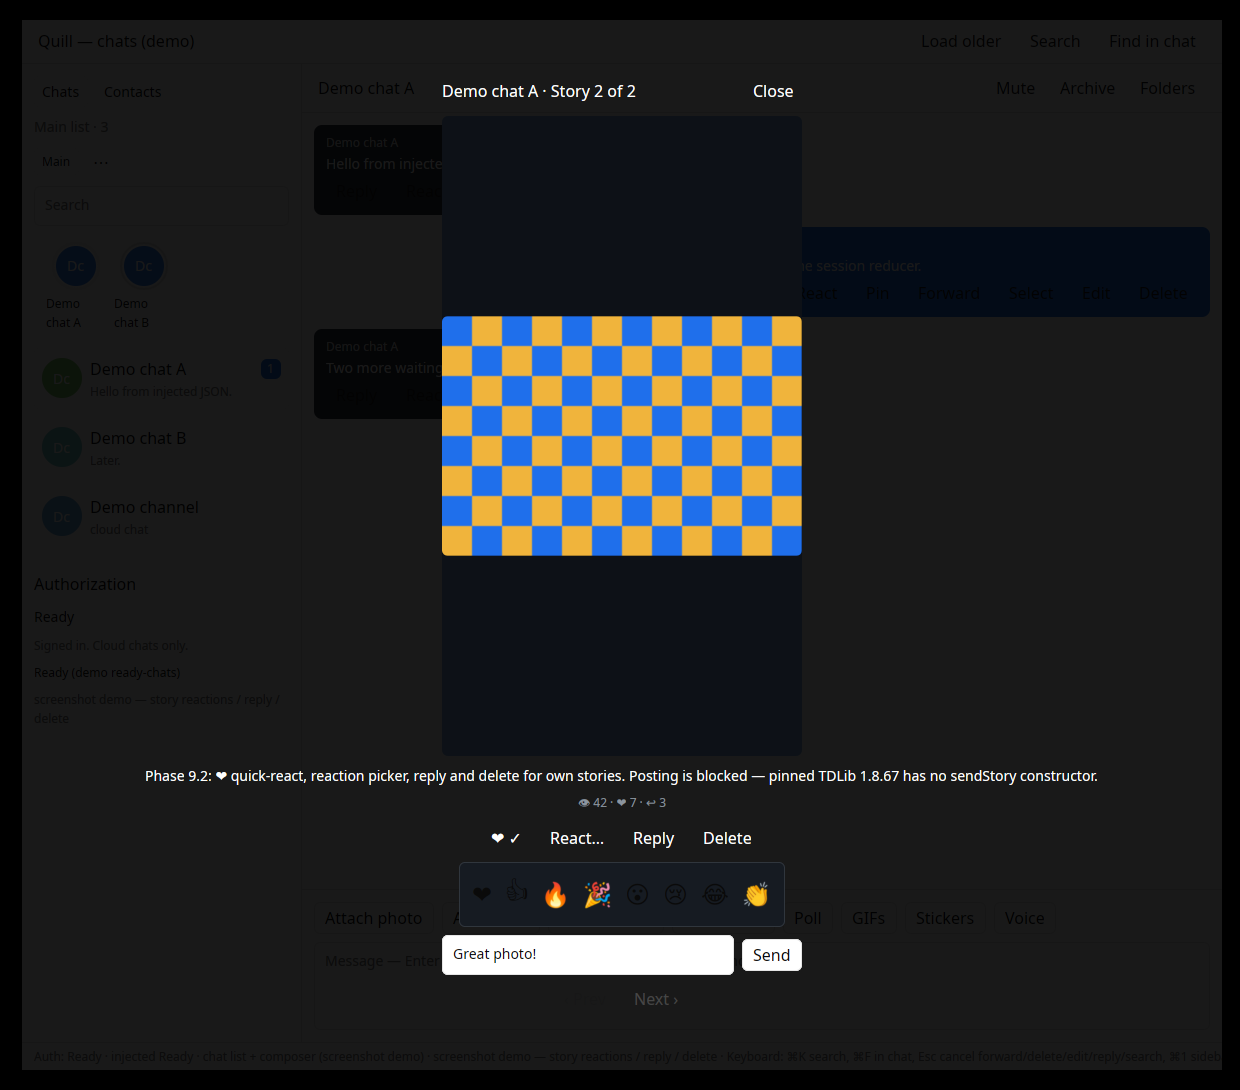
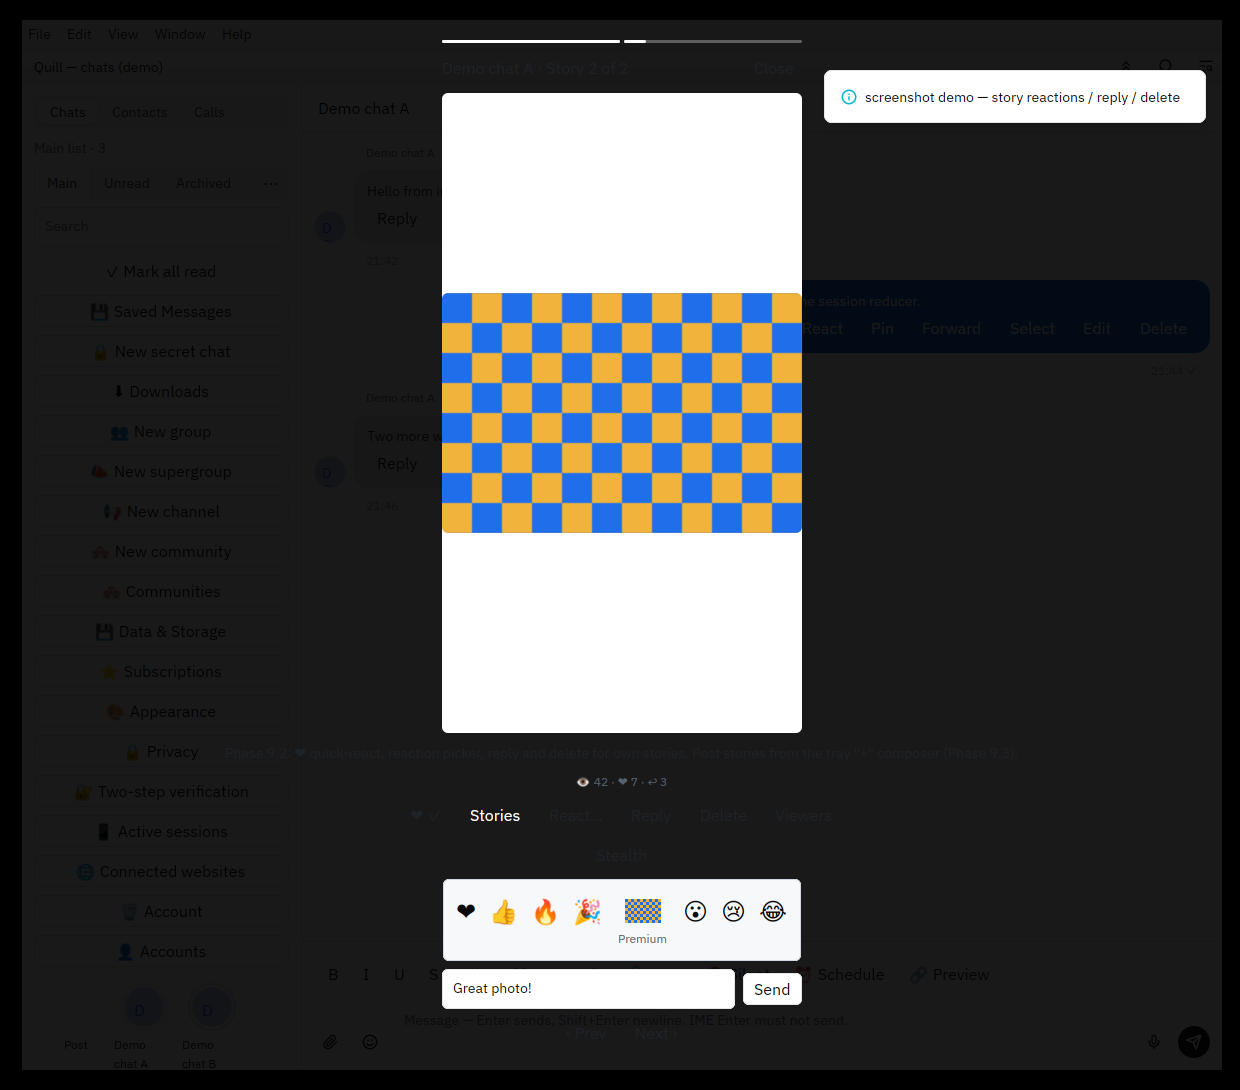
Warm story custom-emoji downloads and refresh picker UI proof

Changed region(s): [[0.1226, 0.0624, 0.9806, 0.9358]]

diff --git a/src/ui/story_composer.rs b/src/ui/story_composer.rs
@@ -13,17 +13,18 @@ use gpui_kit::prelude::FluentBuilder;
 use gpui_kit::*;
 use quill::diagnostics::{DiagnosticSink, MemorySink};
 use quill::ids::ChatId;
-use quill::state::{Session, StoryPostOutcome, StoryPostState};
+use quill::state::{RequestPurpose, Session, StoryPostOutcome, StoryPostState};
 use quill::story_composer::{StoryComposer, StoryExpiry, StoryMediaKind, StoryPrivacy};
 use quill::telegram::client::copy_and_parse;
 use quill::telegram::requests::input_story_content;
 use std::sync::Arc;
 use std::sync::atomic::AtomicU64;
-/// `ReadyStoryPost` fixture (Phase 9.2): same seed as `ReadyStories`, but
-/// Demo chat A's photo story (id 5) is an *own* story — chosen ❤ reaction,
-/// interaction counts, `can_be_deleted` / `can_be_replied` — and an
-/// `availableReactions` response is injected through the reducer so the
-/// reaction picker has options.
+/// `ReadyStoryPost` fixture (Phase 9.2 / stories-custom-reactions): same
+/// seed as `ReadyStories`, but Demo chat A's photo story (id 5) is an *own*
+/// story — chosen ❤ reaction, interaction counts, `can_be_deleted` /
+/// `can_be_replied` — plus `availableReactions` (emoji + one custom-emoji
+/// Premium tile) and a cached `getCustomEmojiStickers` answer so the picker
+/// renders a real custom-emoji sticker thumb (demo-thumb.png).
 pub(super) fn apply_ready_story_post(
     session: &mut Session,
     sink: &Arc<MemorySink>,
@@ -74,13 +75,26 @@ pub(super) fn apply_ready_story_post(
             r#"{{"@type":"story","id":6,"poster_chat_id":12,"date":1700000000,"content":{{"@type":"storyContentPhoto","photo":{{"@type":"photo","has_stickers":false,"sizes":[{{"@type":"photoSize","type":"y","photo":{photo_file},"width":960,"height":1280,"progressive_sizes":[]}}]}}}},"caption":{}}}"#,
             caption("Demo chat B story."),
         ),
-        // Seeded picker options (`getStoryAvailableReactions` response).
-        r#"{"@type":"availableReactions","top_reactions":[{"@type":"availableReaction","type":{"@type":"reactionTypeEmoji","emoji":"❤"},"needs_premium":false},{"@type":"availableReaction","type":{"@type":"reactionTypeEmoji","emoji":"👍"},"needs_premium":false},{"@type":"availableReaction","type":{"@type":"reactionTypeEmoji","emoji":"🔥"},"needs_premium":false},{"@type":"availableReaction","type":{"@type":"reactionTypeEmoji","emoji":"🎉"},"needs_premium":false},{"@type":"availableReaction","type":{"@type":"reactionTypeEmoji","emoji":"😮"},"needs_premium":false},{"@type":"availableReaction","type":{"@type":"reactionTypeEmoji","emoji":"😢"},"needs_premium":false},{"@type":"availableReaction","type":{"@type":"reactionTypeEmoji","emoji":"😂"},"needs_premium":false},{"@type":"availableReaction","type":{"@type":"reactionTypeEmoji","emoji":"👏"},"needs_premium":false}],"recent_reactions":[],"popular_reactions":[],"allow_custom_emoji":false,"are_tags":false,"unavailability_reason":null}"#.to_string(),
+        // Seeded picker options (`getStoryAvailableReactions` response) —
+        // emoji rows plus one custom-emoji Premium option (id 4242).
+        r#"{"@type":"availableReactions","top_reactions":[{"@type":"availableReaction","type":{"@type":"reactionTypeEmoji","emoji":"❤"},"needs_premium":false},{"@type":"availableReaction","type":{"@type":"reactionTypeEmoji","emoji":"👍"},"needs_premium":false},{"@type":"availableReaction","type":{"@type":"reactionTypeEmoji","emoji":"🔥"},"needs_premium":false},{"@type":"availableReaction","type":{"@type":"reactionTypeEmoji","emoji":"🎉"},"needs_premium":false},{"@type":"availableReaction","type":{"@type":"reactionTypeCustomEmoji","custom_emoji_id":"4242"},"needs_premium":true},{"@type":"availableReaction","type":{"@type":"reactionTypeEmoji","emoji":"😮"},"needs_premium":false},{"@type":"availableReaction","type":{"@type":"reactionTypeEmoji","emoji":"😢"},"needs_premium":false},{"@type":"availableReaction","type":{"@type":"reactionTypeEmoji","emoji":"😂"},"needs_premium":false}],"recent_reactions":[],"popular_reactions":[],"allow_custom_emoji":true,"are_tags":false,"unavailability_reason":null}"#.to_string(),
     ];
     for json in jsons {
         if let Some(owned) = copy_and_parse(&json, seq, &dyn_sink) {
             session.apply(owned);
         }
+    }
+    // Phase 9.2+: seed `getCustomEmojiStickers` for custom emoji 4242 with a
+    // completed local thumb so the picker tile renders `img()` (not ✨).
+    let custom_extra = session.request(RequestPurpose::GetStoryCustomEmojiStickers, None);
+    let custom_thumb = demo_file_json(94, &demo_thumb_png_path(), true);
+    let stickers = format!(
+        r#"{{"@type":"stickers","@extra":"{extra}","stickers":[{{"@type":"sticker","id":"4242","set_id":"0","width":100,"height":100,"emoji":"✨","format":{{"@type":"stickerFormatWebp"}},"full_type":{{"@type":"stickerFullTypeCustomEmoji","custom_emoji_id":"4242"}},"thumbnail":{{"@type":"thumbnail","format":{{"@type":"thumbnailFormatPng"}},"width":100,"height":100,"file":{thumb}}},"sticker":{thumb}}}]}}"#,
+        extra = custom_extra.0,
+        thumb = custom_thumb,
+    );
+    if let Some(owned) = copy_and_parse(&stickers, seq, &dyn_sink) {
+        session.apply(owned);
     }
 }
 

diff --git a/src/ui/story_viewer.rs b/src/ui/story_viewer.rs
@@ -202,6 +202,7 @@ impl QuillApp {
         self.story_playback.start(Instant::now());
         self.ensure_story_tick(cx);
         self.ensure_story_download(cx);
+        self.ensure_story_custom_emoji_downloads();
         true
     }
 
@@ -814,6 +815,7 @@ impl QuillApp {
         self.story_playback.start(Instant::now());
         self.ensure_story_tick(cx);
         self.ensure_story_download(cx);
+        self.ensure_story_custom_emoji_downloads();
         cx.notify();
     }
 
@@ -868,6 +870,9 @@ impl QuillApp {
                         if let Some(live) = this.live.as_mut() {
                             let _ = live.driver.maybe_fetch_story_custom_emoji_stickers(&ids);
                         }
+                        // Warm display-file downloads once stickers are
+                        // cached — metadata alone leaves the img() path dead.
+                        this.ensure_story_custom_emoji_downloads();
                         cx.notify();
                         true
                     })
@@ -914,6 +919,44 @@ impl QuillApp {
         });
         if !local && item.download_file_id.0 != 0 {
             self.request_media_download(item.download_file_id, None, cx);
+        }
+    }
+
+    /// Phase 9.2+: warm `downloadFile` for custom-emoji reaction sticker
+    /// display files (picker tiles + chosen badge). Metadata from
+    /// `getCustomEmojiStickers` alone is not enough — `story_custom_emoji_path`
+    /// needs a completed local file. Dedupes active downloads so the viewer
+    /// tick can call this safely every frame.
+    pub(super) fn ensure_story_custom_emoji_downloads(&mut self) {
+        let ids = self.story_custom_emoji_fetch_ids();
+        let file_ids: Vec<_> = {
+            let Some(session) = self.session() else {
+                return;
+            };
+            ids.iter()
+                .filter_map(|id| {
+                    let sticker = session.story_custom_emoji_stickers.get(id)?;
+                    let file_id = sticker.display_file_id()?;
+                    if file_id.0 == 0 {
+                        return None;
+                    }
+                    match session.files.get(&file_id.0) {
+                        Some(file)
+                            if file.usable_path().is_some() || file.local.is_downloading_active =>
+                        {
+                            None
+                        }
+                        _ => Some(file_id),
+                    }
+                })
+                .collect()
+        };
+        for file_id in file_ids {
+            if let Some(live) = self.live.as_mut() {
+                // Display chrome uses one-shot downloadFile, like chat
+                // thumbnails, rather than the user's downloads list.
+                let _ = live.driver.download_file(file_id, 1);
+            }
         }
     }
 
@@ -1020,8 +1063,9 @@ impl QuillApp {
                         .id(("story-custom-emoji-option", index))
                         .cursor_pointer()
                         .pressable(cx.theme())
-                        .w(px(48.))
-                        .h(px(48.))
+                        .w(px(64.))
+                        .h(px(64.))
+                        .flex_shrink_0()
                         .rounded_md()
                         .flex()
                         .flex_col()
@@ -1033,6 +1077,7 @@ impl QuillApp {
                                 .id(("story-custom-emoji-img", id as u64))
                                 .w(px(36.))
                                 .h(px(36.))
+                                .flex_shrink_0()
                                 .object_fit(ObjectFit::Contain)
                                 .with_fallback(|| div().text_2xl().child("✨").into_any_element())
                                 .into_any_element(),
@@ -1041,8 +1086,13 @@ impl QuillApp {
                         cell = cell.child(div().text_2xl().child("✨"));
                     }
                     if reaction.needs_premium {
-                        cell =
-                            cell.child(div().text_xs().text_color(text_muted()).child("Premium"));
+                        cell = cell.child(
+                            div()
+                                .text_xs()
+                                .whitespace_nowrap()
+                                .text_color(text_muted())
+                                .child("Premium"),
+                        );
                     }
                     picker = picker.child(cell.on_click(cx.listener(move |this, _, _, cx| {
                         this.pick_story_custom_emoji_reaction(id, cx);

diff --git a/src/connect/tests/stories.rs b/src/connect/tests/stories.rs
@@ -528,6 +528,69 @@ fn driver_fetch_story_custom_emoji_stickers_dedupes_and_caches() {
     );
     assert_eq!(recorder.snapshot().len(), sent);
 
+    // Cache path: ingest the stickers answer, then the same id is a no-op.
+    driver
+        .ingest(
+            copy_and_parse(
+                &format!(
+                    r#"{{"@type":"stickers","@extra":"{}","stickers":[{{"@type":"sticker","id":"123","set_id":"0","width":100,"height":100,"emoji":"✨","format":{{"@type":"stickerFormatWebp"}},"full_type":{{"@type":"stickerFullTypeCustomEmoji","custom_emoji_id":"123"}},"thumbnail":null,"sticker":{{"@type":"file","id":77,"size":4,"expected_size":4,"local":{{"@type":"localFile","path":"","can_be_downloaded":true,"can_be_deleted":false,"is_downloading_active":false,"is_downloading_completed":false,"download_offset":0,"downloaded_prefix_size":0,"downloaded_size":0}},"remote":{{"@type":"remoteFile","id":"x","unique_id":"u","is_uploading_active":false,"is_uploading_completed":true,"uploaded_size":4}}}}}}]}}"#,
+                    extra.0
+                ),
+                &seq,
+                &dyn_sink,
+            )
+            .unwrap(),
+        )
+        .unwrap();
+    assert!(
+        driver
+            .session
+            .story_custom_emoji_stickers
+            .contains_key(&123)
+    );
+    assert!(
+        driver
+            .maybe_fetch_story_custom_emoji_stickers(&[123])
+            .unwrap()
+            .is_none()
+    );
+    assert_eq!(recorder.snapshot().len(), sent);
+
+    // Cached metadata still needs its display file. The viewer uses the
+    // automatic API, which dedupes before TDLib marks the download active.
+    let display_file = driver.session.story_custom_emoji_stickers[&123]
+        .display_file_id()
+        .unwrap();
+    let download_extra = driver.download_file(display_file, 1).unwrap().unwrap();
+    let requests = recorder.snapshot();
+    let download: Value = serde_json::from_str(requests.last().unwrap()).unwrap();
+    assert_eq!(download["@type"], "downloadFile");
+    assert_eq!(download["file_id"], 77);
+    assert_eq!(download["priority"], 1);
+    assert!(driver.download_file(display_file, 1).unwrap().is_none());
+    assert!(driver.session.user_downloads.is_empty());
+    assert_eq!(recorder.snapshot().len(), sent + 1);
+
+    driver
+        .ingest(
+            copy_and_parse(
+                &format!(
+                    r#"{{"@type":"file","@extra":"{}","id":77,"size":4,"expected_size":4,"local":{{"@type":"localFile","path":"/tmp/custom-emoji.webp","can_be_downloaded":true,"can_be_deleted":true,"is_downloading_active":false,"is_downloading_completed":true,"download_offset":0,"downloaded_prefix_size":4,"downloaded_size":4}},"remote":{{"@type":"remoteFile","id":"x","unique_id":"u","is_uploading_active":false,"is_uploading_completed":true,"uploaded_size":4}}}}"#,
+                    download_extra.0
+                ),
+                &seq,
+                &dyn_sink,
+            )
+            .unwrap(),
+        )
+        .unwrap();
+    assert_eq!(
+        driver.session.files[&77].usable_path(),
+        Some("/tmp/custom-emoji.webp")
+    );
+    assert!(driver.download_file(display_file, 1).unwrap().is_none());
+    assert_eq!(recorder.snapshot().len(), sent + 1);
+
     let _ = std::fs::remove_dir_all(&dir);
 }
 

diff --git a/src/ui/screenshot_demo.rs b/src/ui/screenshot_demo.rs
@@ -239,13 +239,15 @@ pub enum ScreenshotDemo {
     /// the chat list for "Demo chat A"/"Demo chat B" plus the story viewer
     /// overlay open on Demo chat A's downloaded photo story (Phase 9.1).
     ReadyStories,
-    /// Story posting slice demo (injected, no live Telegram): same seed as
-    /// `ReadyStories`, but Demo chat A's photo story carries a chosen ❤
-    /// reaction, interaction counts, and deletable/repliable flags; the
-    /// viewer opens with the **reaction picker** and **reply row** visible,
-    /// plus a seeded `availableReactions` response (Phase 9.2). The demo
-    /// keeps its viewer-only shape — the posting composer is the
-    /// `ReadyStoryComposer` demo (Phase 9.3).
+    /// Story posting / custom-reaction slice demo (injected, no live
+    /// Telegram): same seed as `ReadyStories`, but Demo chat A's photo
+    /// story carries a chosen ❤ reaction, interaction counts, and
+    /// deletable/repliable flags; the viewer opens with the **reaction
+    /// picker** and **reply row** visible, plus seeded `availableReactions`
+    /// (emoji + custom-emoji Premium tile with a local sticker thumb —
+    /// Phase 9.2 / `parity:stories-custom-reactions`). The demo keeps its
+    /// viewer-only shape — the posting composer is the `ReadyStoryComposer`
+    /// demo (Phase 9.3).
     ReadyStoryPost,
     /// Phase 9.3: story posting composer (injected, no live Telegram) —
     /// the `ReadyStories` fixture plus the composer overlay open: a

diff --git a/src/ui/demo_setup.rs b/src/ui/demo_setup.rs
@@ -1288,11 +1288,12 @@ impl QuillApp {
                 self.demo_seq.store(session.last_seq, Ordering::SeqCst);
                 apply_ready_story_post(session, &self.demo_sink, &self.demo_seq);
             }
-            // Phase 9.2: viewer opens on the seeded own photo story with
-            // the reaction picker and the reply row visible, seeded
-            // `availableReactions`, and a chosen ❤ reaction. The composer
-            // isn't opened here — it has its own `ReadyStoryComposer`
-            // demo (Phase 9.3).
+            // Phase 9.2 / stories-custom-reactions: viewer opens on the
+            // seeded own photo story with the reaction picker and the
+            // reply row visible, seeded `availableReactions` (emoji +
+            // custom-emoji Premium tile with a local sticker thumb), and
+            // a chosen ❤ reaction. The composer isn't opened here — it
+            // has its own `ReadyStoryComposer` demo (Phase 9.3).
             self.open_story_viewer(ChatId(11), 5, cx);
             self.story_reaction_picker_open = true;
             self.story_reply_open = true;

diff --git a/docs/screenshots/README.md b/docs/screenshots/README.md
@@ -174,7 +174,7 @@ VoiceOver was **not** recorded here (no macOS GUI runner). Keyboard shortcuts ar
 | `ready-dice.png` | **Phase 4.4** Dedicated **Demo dice** chat: three `messageDice` rows — an incoming 🎲 ("Rolled 4"), an outgoing 🎲 ("Rolled 6"), and an incoming 🎯 ("Rolled 5") — each showing the large static emoji face plus the rolled value. Injected `updateNewChat` / `updateNewMessage` JSON through the real reducer, no live Telegram. Driven by `quill --screenshot-demo ready-dice`. |
 | `ready-media-viewer.png` | **Phase 4.5** Ready chat open with the **fullscreen media viewer** on the first photo: dark backdrop, Close button, Prev/Next, `1 / 2` position counter, and caption. Injected `messagePhoto` / `messageVideo` through the real reducer, no live Telegram. Driven by `quill --screenshot-demo ready-media-viewer`. |
 | `ready-stories.png` | **Phase 9.1** **Story tray** above the chat list (Demo chat A with an unread accent ring, Demo chat B muted) plus the **fullscreen story viewer** open on Demo chat A's photo story: dark backdrop, poster name + `Story 2 of 2`, full-size photo, caption, Prev/Next/Close. Injected `updateChatActiveStories` / `story` through the real reducer, no live Telegram. Driven by `quill --screenshot-demo ready-stories`. |
-| `ready-story-post.png` | **Phase 9.2** Story viewer on Demo chat A's **own** photo story with the interaction UI open: **❤ ✓ quick-react**, **React…** picker (seeded `availableReactions`), **Reply** input (`Great photo!` + Send), **Delete**, and the `👁 42 · ❤ 7 · ↩ 3` interaction counters. Posting goes through the tray "+" composer (Phase 9.3, `ready-story-composer.png`). Injected `story` / `availableReactions` through the real reducer, no live Telegram. Driven by `QUILL_DEMO_WINDOW_SIZE=1200x1050 quill --screenshot-demo ready-story-post`. |
+| `ready-story-post.png` | **Phase 9.2** Story viewer on Demo chat A's **own** photo story with the interaction UI open: **❤ ✓ quick-react**, **React…** picker (seeded `availableReactions`, including a custom-emoji **Premium** tile rendered from a local sticker thumbnail), **Reply** input (`Great photo!` + Send), **Delete**, and the `👁 42 · ❤ 7 · ↩ 3` interaction counters. Posting goes through the tray "+" composer (Phase 9.3, `ready-story-composer.png`). Injected `story` / `availableReactions` through the real reducer, no live Telegram. Driven by `QUILL_DEMO_WINDOW_SIZE=1200x1050 quill --screenshot-demo ready-story-post`. |
 | `ready-story-composer.png` | **Phase 9.3/9.4** **Story composer** overlay over the story tray: seeded photo path (the demo thumbnail renders in the preview), caption draft `Posting my first story **from Quill**!`, privacy selector on **☑ Close friends**, and the status line showing `✓ Eligible to post` from a seeded `canPostStoryResultOk`. **Phase 9.4** additions: expiry selector on **☑ 48 hours (Premium)**, **☑ Post to chat page**, **☑ Protect content**, link sticker URL `https://t.me/quill`, reaction stickers `❤ 🔥`. Path entry is the temporary picker (no native file picker yet). Injected `updateChatActiveStories` / `story` through the real reducer, no live Telegram. Driven by `quill --screenshot-demo ready-story-composer`. |
 | `ready-story-viewers.png` | **Phase 9.5** Story viewer on Demo chat A's **own** photo story with the **Viewers** panel open: `2 viewers` header, **Dana Levi** (initials avatar) with `❤ · 5m ago`, and **Omar Haddad** with `forwarded · 2h ago` — row suffix is the chosen reaction emoji or the interaction kind plus relative time. Injected `storyInteractions` (total_count 2) through the real reducer, no live Telegram. Driven by `quill --screenshot-demo ready-story-viewers`. |
 | `ready-story-edit.png` | **Phase 9.5** **Story edit composer** overlay (title `Edit story`): the seeded editable own story (id 5, Demo chat A — `can_be_edited`, `is_edited`, repost origin, link + reaction areas, close-friends privacy) opened in edit mode — media path **empty** with `Replace media (optional — empty keeps the current)`, caption prefilled from the cached story (`Phase 9.5: edit posted stories — caption, areas, cover and privacy.`). The sticker inputs stay hidden until replacement media is entered (schema: areas can't change unless content changes). Privacy/expiry/toggles are edit-mode-hidden (`editStory` has no such fields); cover (`editStoryCover`) and privacy (`setStoryPrivacySettings`) editors live in the viewer. Injected `updateChatActiveStories` / `story` through the real reducer, no live Telegram. Driven by `QUILL_DEMO_WINDOW_SIZE=1200x1050 quill --screenshot-demo ready-story-edit`. |

diff --git a/docs/decisions/parity-stories-custom-reactions.md b/docs/decisions/parity-stories-custom-reactions.md
@@ -12,3 +12,7 @@
 - **Key decisions (ponytail):** reused S10's `stickers` parse + the composer sticker picker's `img()`-with-fallback pattern instead of new render infra; no user-premium state exists in session, so Premium enforcement stays server-side (picker badges `needs_premium`, TDLib rejects, error surfaces on the request) per the existing driver comment; animated (tgs/webm) custom emoji show their thumbnail/static frame only — no animation player in this slice.
 - **Tests:** parse keeps all three kinds; driver fetch dedupes in-flight + caches; updated the two assertions on the old emoji-only shape.
 - **Out of this slice:** `parity:stories-live-play`; custom-emoji animation playback.
+
+- **Rebase fix (2026-09-30):** while the viewer is open, `ensure_story_custom_emoji_downloads` uses the automatic-download driver API to warm `downloadFile` for each cached custom-emoji sticker's `display_file_id` (skips usable / already-active downloads). This avoids adding display chrome to the user download list. Metadata from `getCustomEmojiStickers` alone left the `img()` picker/badge path dead (✨ fallback forever).
+- **UI proof:** `docs/screenshots/ready-story-post.png` — GPUI `--screenshot-demo ready-story-post` (viewer + reaction picker with emoji rows and a custom-emoji Premium tile on a local sticker thumb; Xvfb capture). Copied to `/workspace/quill-ceo/docs/screenshots/ready-story-post.png` and `/workspace/quill-ceo/ready-story-post.png`. The custom tile reserves room for its 36px thumbnail and an unwrapped Premium label.
+- **Regression coverage:** the custom-emoji driver cache test follows metadata ingestion with `downloadFile`, verifies in-flight deduplication and no user download-list entry, then ingests the completed file and checks its usable local path and completed-file deduplication.
